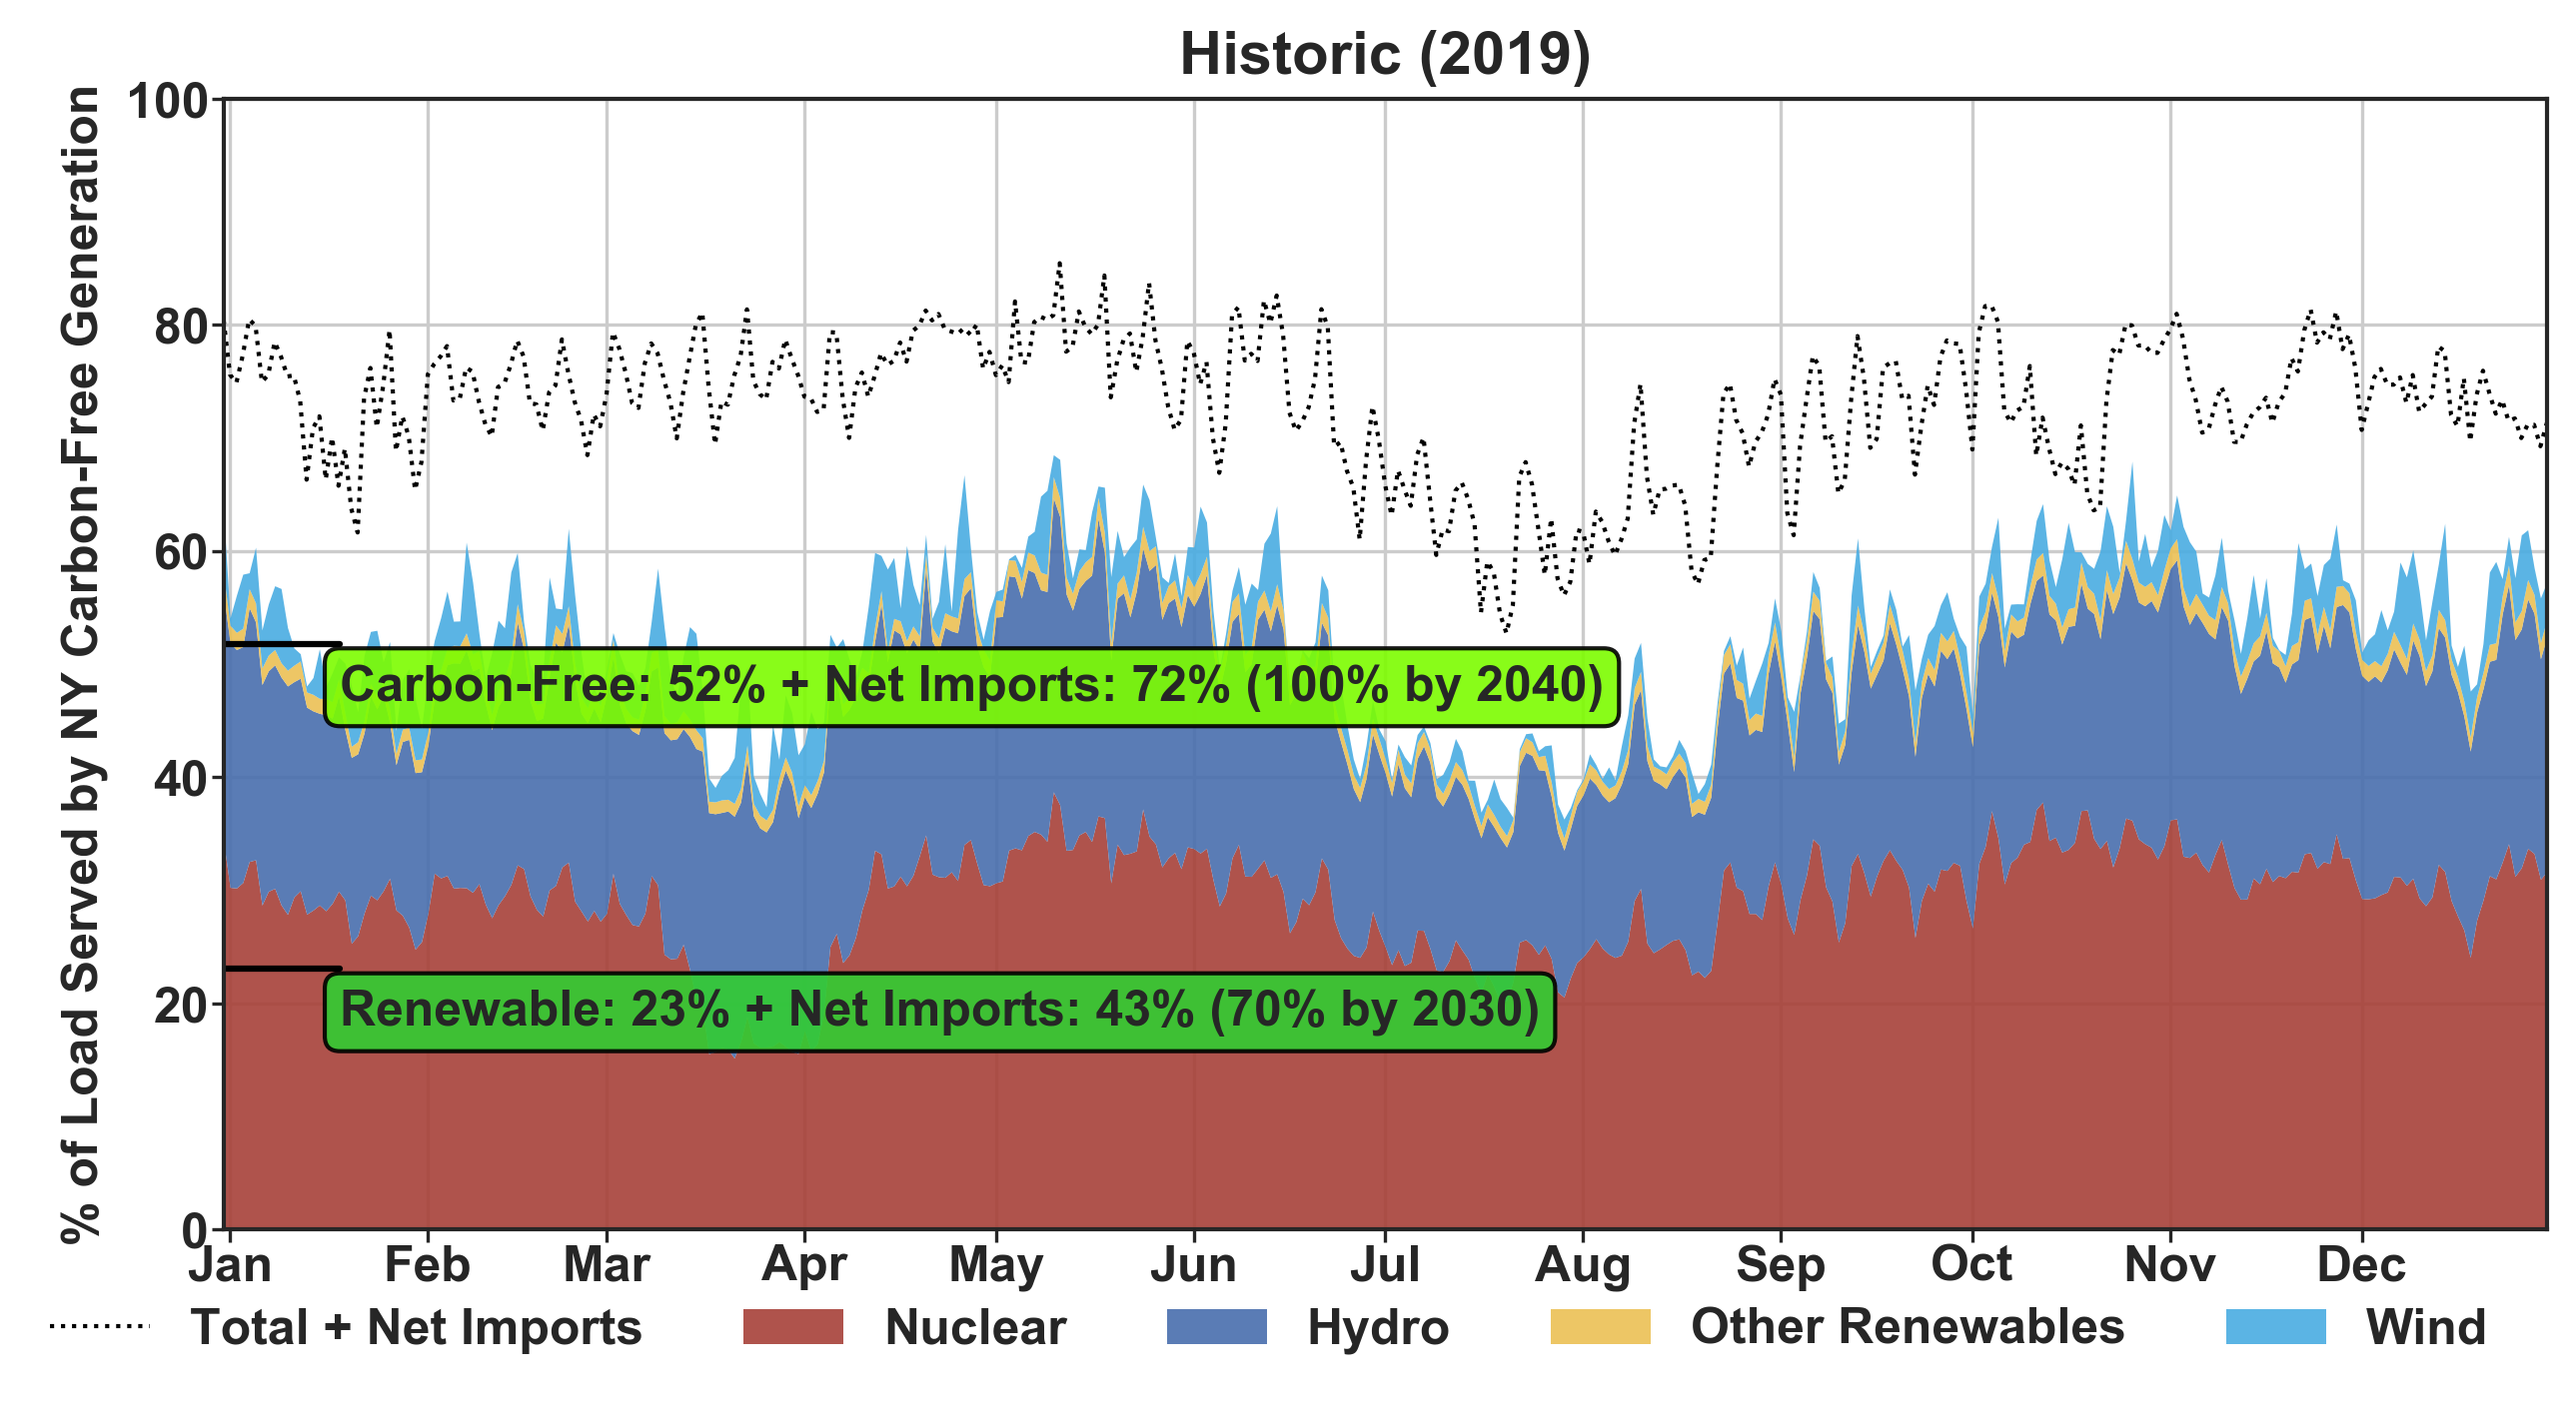
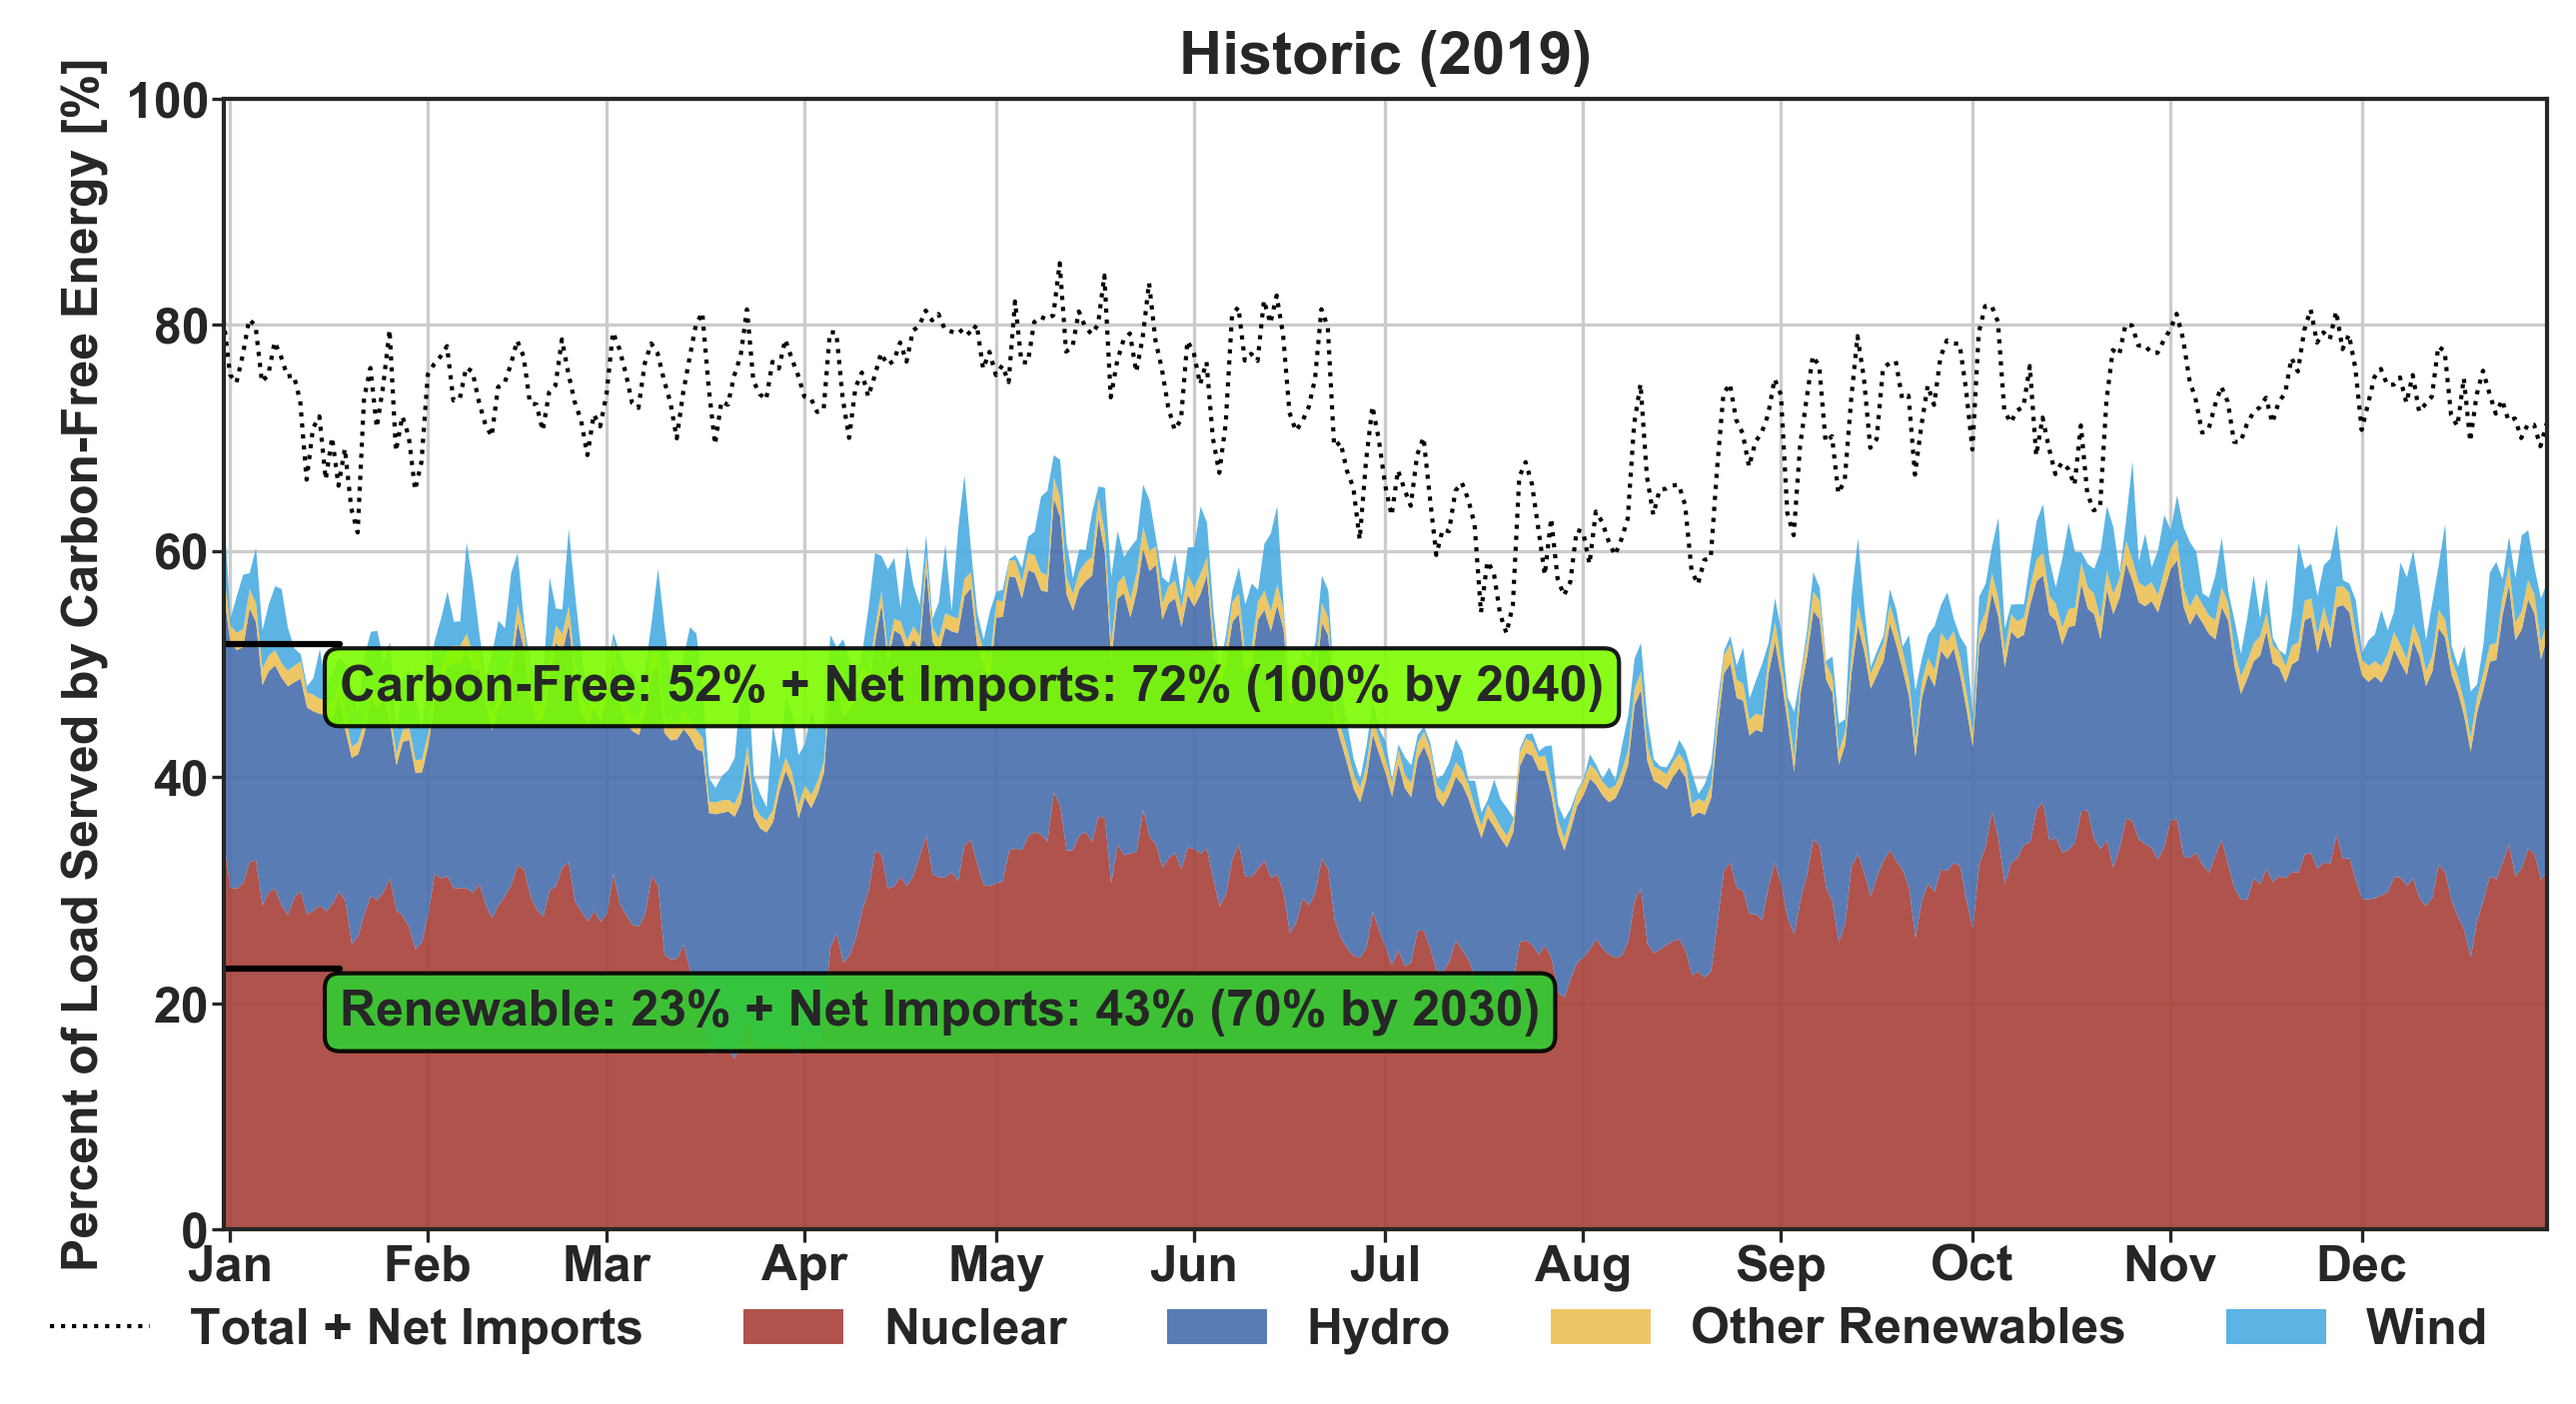
fixed y axis label for carbon free gen

diff --git a/nyisovis.py b/nyisovis.py
@@ -143,7 +143,7 @@ class NYISOVis:
         plt.ylim(0,100)
         plt.xlim(ef.index[0], ef.index[-1])
         plt.xlabel('')
-        plt.ylabel('% of Load Served by NY Carbon-Free Generation')
+        plt.ylabel('Percent of Load Served by Carbon-Free Energy [%]')
         if f!='M':
             locator = mdates.MonthLocator()
             ax.xaxis.set_major_locator(locator)
